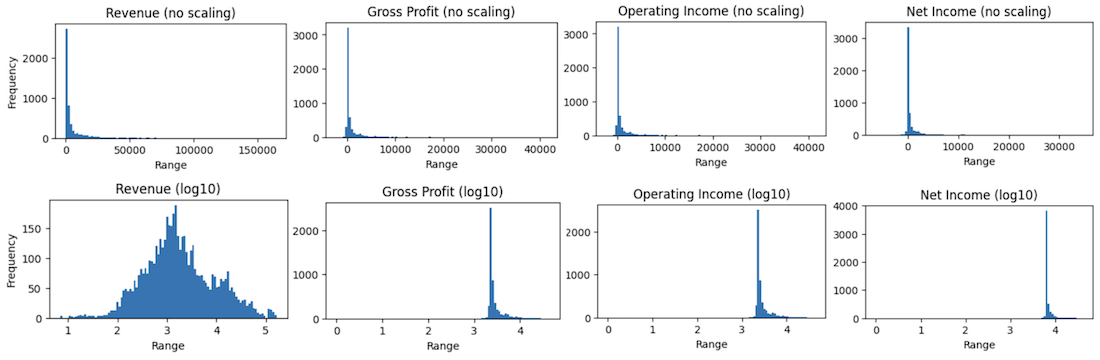
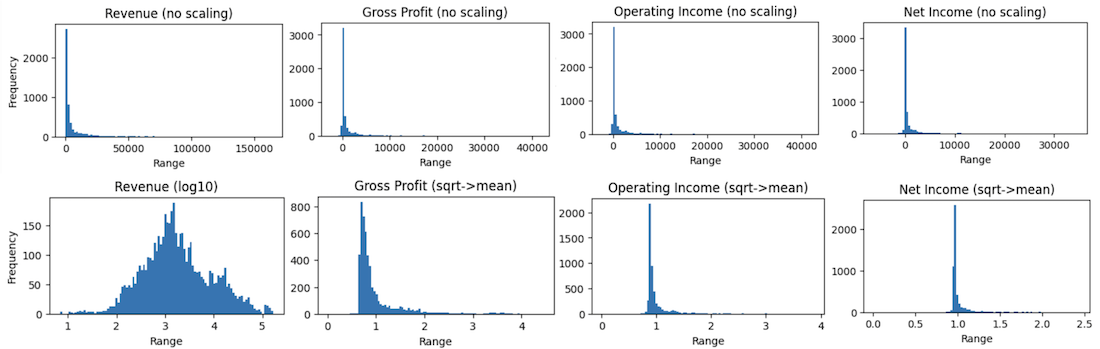
Add static positional encodings and support for additional scaling strategies.

diff --git a/evaluate.py b/evaluate.py
@@ -11,36 +11,51 @@ def evaluate_model(
     data_loader: DataLoader, 
     calculate_loss: Callable[[Tensor, Tensor], Tensor],
     eval_epochs: int, 
-    batch_size: int) -> dict[str, Tensor]:
+    batch_size: int,
+    iter: int) -> Tensor:
     """
-    Evalutes `model` during training against training and validation splits.
+    Evaluates `model` during training against training and validation splits. 
+    Returns the loss from validation split.
     """
     
     model.eval()
-    losses = {}
 
-    losses["train"] = calculate_mean_loss(
+    train_loss = calculate_mean_loss(
         model, data_loader, calculate_loss, "train", eval_epochs, batch_size)
-    losses["val"] = calculate_mean_loss(
+    val_loss = calculate_mean_loss(
         model, data_loader, calculate_loss, "val", eval_epochs, batch_size)
 
+    model_median_errors, baseline_median_errors = (
+        calculate_median_percent_error(
+        model, data_loader, eval_epochs, run_standalone=False))
+
+    print(f"Epoch #{iter + 1}:")
+    print(f"  Train loss: {train_loss:.6f}")
+    print(f"  Valid loss: {val_loss:.6f}")
+    print(f"  % error (model): {model_median_errors}")
+    print(f"  % error (y-o-y): {baseline_median_errors}")
+
     model.train()
-    return losses
+    return val_loss
 
 @torch.no_grad()
-def evaluate_trained_model(
+def calculate_median_percent_error(
     model: FPT, 
     data_loader: DataLoader,
-    eval_epochs: int) -> None:
+    eval_epochs: int,
+    run_standalone: bool) -> tuple[Tensor, Tensor]:
     """
-    Evalutes trained `model` on test split.
+    Evalutes `model` against test split to determine the percent error. First 
+    output tensor is the model's median percent error and the second is the 
+    baseline prediction strategy's median percent error.
     """
 
-    model.eval()
-    
-    raw_percent_errors = torch.zeros(
+    if run_standalone:
+        model.eval()
+
+    model_percent_errors = torch.zeros(
         eval_epochs, data_loader.get_num_output_features())
-    yoy_percent_errors = torch.zeros(
+    baseline_percent_errors = torch.zeros(
         eval_epochs, data_loader.get_num_output_features())
 
     for k in range(eval_epochs):
@@ -54,34 +69,25 @@ def evaluate_trained_model(
         raw_targets = data_loader.generate_raw_data(targets)
         raw_outputs = data_loader.generate_raw_data(outputs)
         
-        # Populate `raw_percent_errors`.
+        # Populate `model_percent_errors`.
         for i, estimate in enumerate(raw_outputs[T-1]):
             actual = raw_targets[T-1][i]
-            raw_percent_errors[k][i] = calculate_percent_error(
+            model_percent_errors[k][i] = calculate_percent_error(
                 estimate, actual)
             
-        # Populate `yoy_percent_errors` for baseline prediction accuracy.
+        # Populate `baseline_percent_errors`.
         for i, actual in enumerate(raw_targets[T-1]):
             prediction = generate_yoy_prediction(raw_targets, T, i)
-            yoy_percent_errors[k][i] = calculate_percent_error(
+            baseline_percent_errors[k][i] = calculate_percent_error(
                 prediction, actual)
 
-    # Calculate mean and median errors along column dimension and then round.
-    raw_mean_errors = [round(e.item(), 2) for e in 
-                       torch.mean(raw_percent_errors, dim=0)]
-    print(f"Average model percent error: {raw_mean_errors}")
-    yoy_mean_errors = [round(e.item(), 2) for e in 
-                       torch.mean(yoy_percent_errors, dim=0)]
-    print(f"Average Y-o-Y percent error: {yoy_mean_errors}")
-    
-    raw_median_errors = (
+    model_median_errors = (
         [round(e.item(), 2) for e in 
-         torch.median(raw_percent_errors, dim=0).values])
-    print(f"Median model percent error: {raw_median_errors}")
-    yoy_median_errors = (
+         torch.median(model_percent_errors, dim=0).values])
+    baseline_median_errors = (
         [round(e.item(), 2) for e in 
-         torch.median(yoy_percent_errors, dim=0).values])
-    print(f"Median Y-o-Y percent error: {yoy_median_errors}")
+         torch.median(baseline_percent_errors, dim=0).values])
+    return model_median_errors, baseline_median_errors
 
 def calculate_mean_loss(
         model: FPT, 

diff --git a/train.py b/train.py
@@ -1,7 +1,7 @@
 import torch
 
 from config import ColumnConfig, DataConfig
-from evaluate import evaluate_model, evaluate_trained_model
+from evaluate import evaluate_model
 from data_loader import DataLoader
 from fpt import FPT
 from torch import Tensor
@@ -15,21 +15,21 @@ num_layers = 6
 dropout = 0.1
 
 # TRAINING PARAMETERS
-train_epochs = 15000
-eval_interval = train_epochs * 0.1
+train_epochs = 20000
+eval_interval = 1500
 eval_epochs = 200
-learning_rate = 0.001
+learning_rate = 0.0003
 
 # DATALOADER PARAMETERS
 data_config = DataConfig(
     financial_columns=[
       ColumnConfig(header="revenue", scaling_strategy="log10", 
                    lag_steps=4, include_yoy_prediction=True, is_output=True),
-      ColumnConfig(header="gross_profit", scaling_strategy="log10", 
+      ColumnConfig(header="gross_profit", scaling_strategy="sqrt->mean",
                    lag_steps=4, include_yoy_prediction=True, is_output=True),
-      ColumnConfig(header="op_income", scaling_strategy="log10", 
+      ColumnConfig(header="op_income", scaling_strategy="sqrt->mean",
                    lag_steps=4, include_yoy_prediction=True, is_output=True),
-      ColumnConfig(header="net_income", scaling_strategy="log10", 
+      ColumnConfig(header="net_income", scaling_strategy="sqrt->mean",
                    lag_steps=4, include_yoy_prediction=True, is_output=True),
       ColumnConfig(header="sga_expense", scaling_strategy="log10"),
       ColumnConfig(header="rd_expense", scaling_strategy="log10"),
@@ -68,7 +68,7 @@ data_config = DataConfig(
                    lag_steps=3),
       ColumnConfig(header="personal_consumption", scaling_strategy="log10", 
                    lag_steps=3),
-      ColumnConfig(header="trucking", scaling_strategy="mean", 
+      ColumnConfig(header="trucking", scaling_strategy="log10",
                    lag_steps=3),
     ],
     include_quarter_ended=True,
@@ -111,8 +111,7 @@ def train(
         data_loader: DataLoader,
         lr_step_down_iter: int,
         best_loss: float,
-        save_model: bool,
-        evaluate_against_test_split: bool) -> None:
+        save_model: bool) -> None:
     log_training_metrics(data_loader, model)
 
     for iter in range(train_epochs):
@@ -122,14 +121,9 @@ def train(
             optimizer.param_groups[0]['lr'] = lr
 
         if iter % eval_interval == 0 or iter == train_epochs - 1:
-            eval = evaluate_model(
-                model, data_loader, calculate_loss, eval_epochs, batch_size)
-            train_loss = eval["train"]
-            val_loss = eval["val"]
-            
-            print(f"Epoch #{iter + 1}:")
-            print(f"  Train loss: {train_loss:.6f}")
-            print(f"  Valid loss: {val_loss:.6f}")
+            val_loss = evaluate_model(
+                model, data_loader, calculate_loss, eval_epochs, batch_size, 
+                iter)
 
             if save_model and val_loss < best_loss:
                 best_loss = val_loss
@@ -144,19 +138,17 @@ def train(
         loss.backward()
         optimizer.step()
 
-    if evaluate_against_test_split:
-        evaluate_trained_model(model, data_loader, eval_epochs)
-
 data_loader = DataLoader(data_config, block_size)
 
 model = FPT(
     data_loader.get_num_input_features(), 
     data_loader.get_num_output_features(),
-    block_size, num_heads, num_layers, dropout)
+    block_size, num_heads, num_layers, dropout, 
+    use_static_positional_encoding=True)
 
 # Consistent with https://arxiv.org/pdf/2001.08317.pdf.
 optimizer = torch.optim.Adam(model.parameters(), lr=learning_rate)
 
 train(
     model, optimizer, data_loader, int(train_epochs/2), best_loss=float('inf'), 
-    save_model=False, evaluate_against_test_split=True)
+    save_model=False)

diff --git a/data_loader.py b/data_loader.py
@@ -96,6 +96,13 @@ class DataLoader():
                 column = torch.exp(column) - torch.abs(config.scaling_adj)
             elif strategy == "log10":
                 column = 10**column - torch.abs(config.scaling_adj)
+            elif strategy == "sqrt->mean":
+                column = column * config.mean
+                column = torch.square(column) - torch.abs(config.scaling_adj)
+            elif strategy == "sqrt->mean->sqrt":
+                column = torch.pow(column, 2)
+                column = column * config.mean
+                column = torch.square(column) - torch.abs(config.scaling_adj)
 
             raw_data[:, i] = column
 
@@ -367,8 +374,10 @@ class DataLoader():
             column_config.mean = mean
             column_config.std = std
             column = (column - mean) / std
-        elif strategy == "log" or strategy == "log10":            
+        elif (strategy == "log" or strategy == "log10" or 
+              strategy == "sqrt->mean" or strategy == "sqrt->mean->sqrt"):
             min = torch.min(column)
+            # Apply shift to entire column, as it contains negative values.
             if min.item() < 1:
                 min -= 1
                 column = column + abs(min)
@@ -380,8 +389,22 @@ class DataLoader():
 
             if strategy == "log":
                 column = torch.log(column)
-            else:
+            elif strategy == "log10":
                 column = torch.log10(column)
+            elif strategy == "sqrt->mean":
+                column = torch.sqrt(column)
+                mean = column.mean()
+                if is_output_column == True:
+                    column_config.mean = mean
+                column = column / mean
+            elif strategy == "sqrt->mean->sqrt":
+                column = torch.sqrt(column)
+                mean = column.mean()
+                if is_output_column == True:
+                    column_config.mean = mean
+                column = column / mean
+                column = torch.pow(column, 1/2)
+
         return column, column_config
     
     def __scale_data(

diff --git a/fpt.py b/fpt.py
@@ -165,9 +165,13 @@ class FPT(nn.Module):
             block_size: int, 
             num_heads: int, 
             num_layers: int, 
-            dropout: float):
+            dropout: float,
+            use_static_positional_encoding: bool):
         super().__init__()
 
+        # Whether to use static positional encodings as opposed to learned. 
+        # Static tends to perform better on the smaller dataset.
+        self._use_static_positional_encoding = use_static_positional_encoding
         self._position_embedding_table = nn.Embedding(
             block_size, num_input_features)
         self._blocks = nn.Sequential(*[DecoderBlock(
@@ -191,14 +195,19 @@ class FPT(nn.Module):
             self, 
             inputs: Tensor) -> Tensor:
         B, T, C = inputs.shape
-        
+
         # Augments `inputs` with position-dependent pattern of values (uses 
         # index to encode position of elements in sequence), allowing attention 
         # head and feed-forward layers to incorporate positional information 
         # during transformations.
-        pos_emb = self._position_embedding_table(torch.arange(T)) # (T,C)
-        x = inputs + pos_emb # (B,T,C)
+        if self._use_static_positional_encoding:            
+            pos_emb = torch.sin(torch.arange(T))
+            pos_emb = pos_emb.unsqueeze(1)
+            pos_emb = pos_emb.repeat(1,C)
+        else:
+            pos_emb = self._position_embedding_table(torch.arange(T)) # (T,C)
 
+        x = inputs + pos_emb # (B,T,C)
         x = self._blocks(x) # (B,T,C)
         x = self._ln(x) # (B,T,C)
 

diff --git a/config.py b/config.py
@@ -11,7 +11,8 @@ class ColumnConfig:
     Vars:
       -header: name of the data column header (e.g. 'revenue').
       -scaling_strategy: scaling technique to apply to column. Valid values 
-       include: 'mean', 'standardization', 'log', 'log10'.
+       include: 'mean', 'standardization', 'log', 'log10' and sequential
+       'sqrt->mean' and 'sqrt->mean->sqrt'.
       -lag_steps: number of lag steps to apply as input feature. Valid values: 
        0 - block_size. Generally improves model prediction accuracy.
       -include_yoy_prediction: whether or not to include a YoY prediction as 
